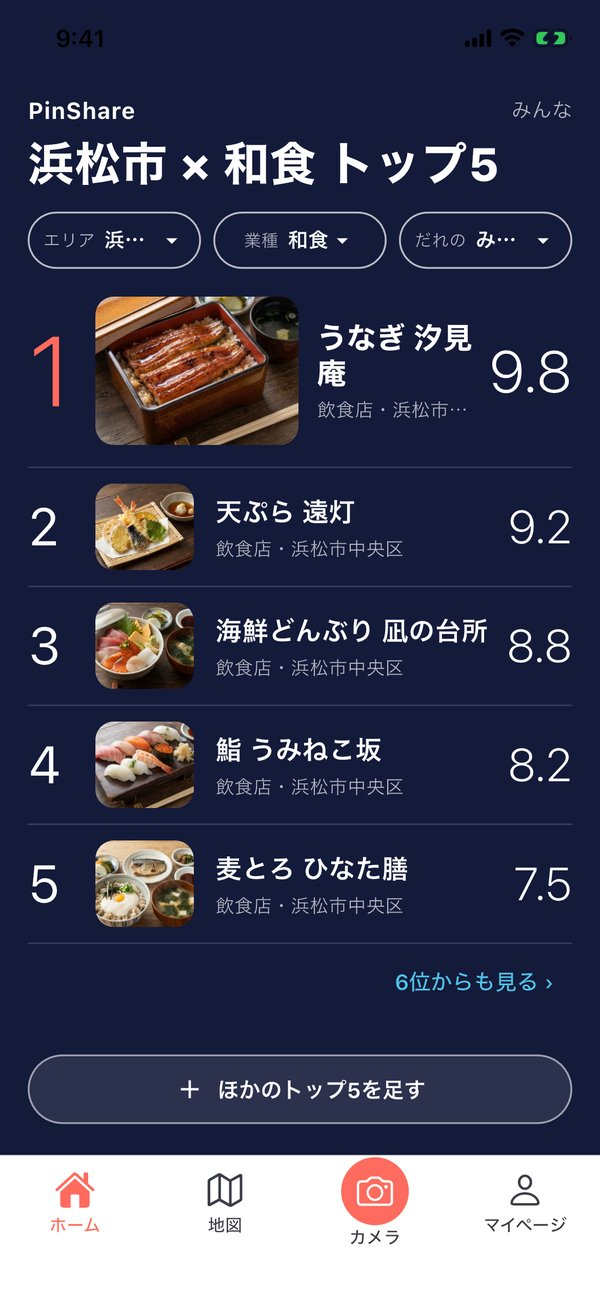
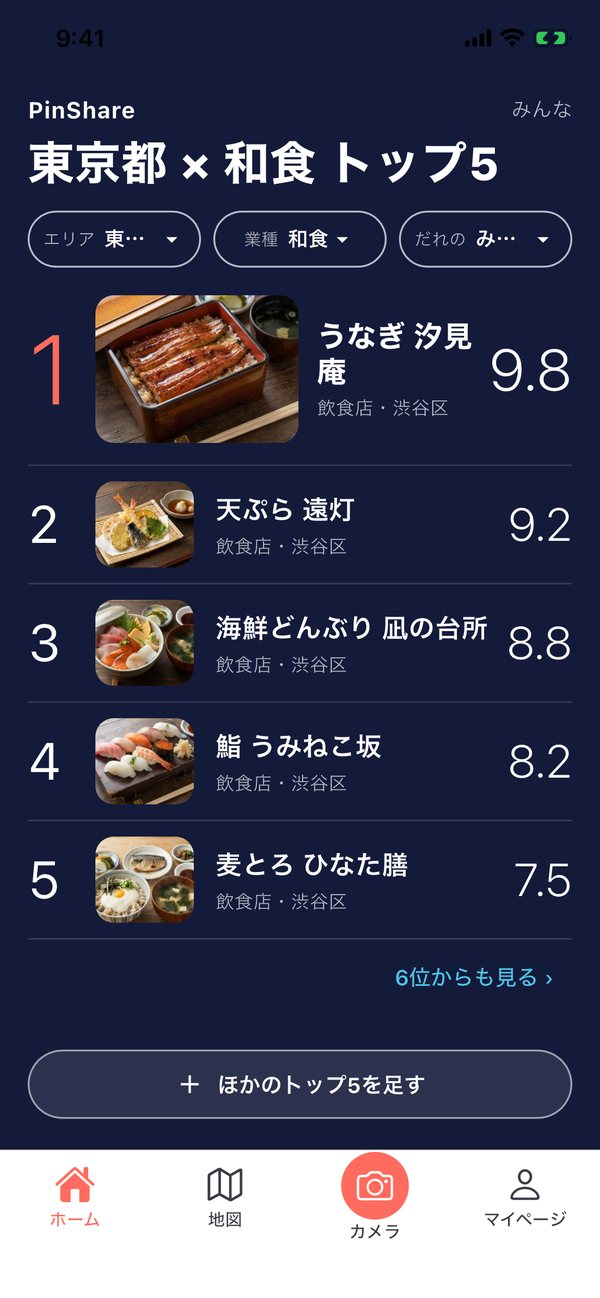
PinShare 紹介ページ：画像を東京の見本に（浜松・ピン友が写っていた）／「みんなのランキングは1人1票」を足す／グループ／2.0.4／404 の検索語から「ピン友」を外す（ja/en/ko）

diff --git a/pinshare/index.html b/pinshare/index.html
@@ -87,7 +87,7 @@
         <svg width="28" height="28" viewBox="0 0 24 24" fill="currentColor" aria-hidden="true"><path d="M16.7 12.7c0-2.3 1.9-3.4 2-3.5-1.1-1.6-2.8-1.8-3.4-1.8-1.4-.1-2.8.9-3.5.9s-1.8-.9-3-.8c-1.5 0-2.9.9-3.7 2.3-1.6 2.7-.4 6.8 1.1 9 .8 1.1 1.7 2.3 2.9 2.2 1.2 0 1.6-.7 3-.7s1.8.7 3 .7 2-1.1 2.8-2.2c.9-1.3 1.2-2.5 1.3-2.6-.1 0-2.5-1-2.5-3.5zM14.5 5.4c.6-.8 1.1-1.9 1-3-.9 0-2.1.6-2.8 1.4-.6.7-1.2 1.8-1 2.9 1 .1 2.1-.5 2.8-1.3z"/></svg>
         <span>無料でダウンロード<small>App Store・iPhone／登録1分</small></span>
       </a> <a class="cta cta2" href="https://play.google.com/store/apps/details?id=com.tujitani.pinshare_flutter"><span>Google Play で手に入れる<small>Android</small></span></a>
-      <p class="note">このページは最新版（2.0.3）の内容です。ストアの更新が届くまで、数日かかることがあります。</p>
+      <p class="note">このページは最新版（2.0.4）の内容です。ストアの更新が届くまで、数日かかることがあります。</p>
     </div>
     <div class="phone" aria-hidden="true">
       <img src="img/hero3.jpg" alt="">
@@ -126,7 +126,8 @@
   <p class="sub">比べる・残す・探す・巡るが、ひとつのアプリで。</p>
   <div class="feats">
     <div class="feat"><h3>🏆 比べるだけで、ランキングができる</h3><p>投稿したら「また行きたいのは？」の2択に答えるだけ。点数を考えなくても、自分の順位が決まっていきます。</p></div>
-    <div class="feat"><h3>🥇 ホームは、エリア × ジャンルのトップ5</h3><p>「浜松 × 和食」のように選ぶとトップ5が並びます。みんな／フォロー中／自分のランキングを切り替えられます。</p></div>
+    <div class="feat"><h3>🥇 ホームは、エリア × ジャンルのトップ5</h3><p>「東京 × ラーメン」のように選ぶとトップ5が並びます。みんなのランキング／フォロー中／グループ／自分のランキングを切り替えられます。</p></div>
+    <div class="feat"><h3>⚖ みんなのランキングは、1人1票</h3><p>点数は、行った人それぞれの評価を「1人1票」として平均したもの。フォロワーや投稿の数で、1票の重さは変わりません。同じ人が同じお店に何度投稿しても、数えるのは1票だけです。</p></div>
     <div class="feat"><h3>📍 行った場所が、私の地図になる</h3><p>写真つきのピンで、行った場所が地図に残ります。ジャンルで絞り込み、自分のTOPだけを見ることもできます。</p></div>
     <div class="feat"><h3>🔎 次の1軒を、地図で探す</h3><p>地名や目的を入れて、地図の中のお店を探せます。見つけたお店はそのままルートに追加。道順は Google マップで開けます。</p></div>
     <div class="feat"><h3>🗺 ルートと旅行プラン</h3><p>いま見ている範囲で、巡る順番をおまかせで提案。行き先と日数から、旅行プランも組めます。</p></div>

diff --git a/pinshare/ko/index.html b/pinshare/ko/index.html
@@ -83,7 +83,7 @@
         <svg width="28" height="28" viewBox="0 0 24 24" fill="currentColor" aria-hidden="true"><path d="M16.7 12.7c0-2.3 1.9-3.4 2-3.5-1.1-1.6-2.8-1.8-3.4-1.8-1.4-.1-2.8.9-3.5.9s-1.8-.9-3-.8c-1.5 0-2.9.9-3.7 2.3-1.6 2.7-.4 6.8 1.1 9 .8 1.1 1.7 2.3 2.9 2.2 1.2 0 1.6-.7 3-.7s1.8.7 3 .7 2-1.1 2.8-2.2c.9-1.3 1.2-2.5 1.3-2.6-.1 0-2.5-1-2.5-3.5zM14.5 5.4c.6-.8 1.1-1.9 1-3-.9 0-2.1.6-2.8 1.4-.6.7-1.2 1.8-1 2.9 1 .1 2.1-.5 2.8-1.3z"/></svg>
         <span>무료 다운로드<small>App Store · iPhone · 가입 1분</small></span>
       </a> <a class="cta cta2" href="https://play.google.com/store/apps/details?id=com.tujitani.pinshare_flutter"><span>Google Play에서 받기<small>Android</small></span></a>
-      <p class="note">이 페이지는 최신 버전(2.0.3) 기준입니다. 스토어 업데이트가 도착하기까지 며칠 걸릴 수 있습니다.</p>
+      <p class="note">이 페이지는 최신 버전(2.0.4) 기준입니다. 스토어 업데이트가 도착하기까지 며칠 걸릴 수 있습니다.</p>
       <p class="note">2.0.3부터 8개 언어를 지원합니다. 아래 화면은 일본어 화면입니다.</p>
     </div>
     <div class="phone" aria-hidden="true">
@@ -123,7 +123,8 @@
   <p class="sub">비교하고, 남기고, 찾고, 도는 것까지 한 앱에서.</p>
   <div class="feats">
     <div class="feat"><h3>🏆 비교만 하면 랭킹 완성</h3><p>게시 후 「또 가고 싶은 곳은?」에 답하기만 하면 됩니다. 점수를 고민하지 않아도 순위가 정해집니다.</p></div>
-    <div class="feat"><h3>🥇 홈은 지역 × 장르 TOP 5</h3><p>지역과 장르를 고르면 TOP 5가 나옵니다. 전체／팔로우 중／내 랭킹으로 바꿔 볼 수 있습니다.</p></div>
+    <div class="feat"><h3>🥇 홈은 지역 × 장르 TOP 5</h3><p>지역과 장르를 고르면 TOP 5가 나옵니다. 전체／팔로우 중／그룹／내 랭킹으로 바꿔 볼 수 있습니다.</p></div>
+    <div class="feat"><h3>⚖ 모두의 랭킹은 1인 1표</h3><p>점수는 다녀온 사람 각자의 평가를 1인 1표로 평균한 것입니다. 팔로워 수나 게시물 수로 한 표의 무게가 달라지지 않고, 같은 가게에 여러 번 올려도 1표로 셉니다.</p></div>
     <div class="feat"><h3>📍 다녀온 곳이 나의 지도로</h3><p>사진 핀으로 다녀온 곳이 지도에 남습니다. 장르로 좁히거나 내 TOP만 볼 수도 있습니다.</p></div>
     <div class="feat"><h3>🔎 다음 한 곳을 지도에서</h3><p>지명이나 목적을 입력해 지도 안의 가게를 찾습니다. 찾은 가게는 코스에 추가하고, 길 안내는 Google 지도로.</p></div>
     <div class="feat"><h3>🗺 코스와 여행 플랜</h3><p>지금 보고 있는 범위에서 도는 순서를 알아서 제안합니다. 목적지와 일수로 여행 플랜도 짤 수 있습니다.</p></div>

diff --git a/pinshare/en/index.html b/pinshare/en/index.html
@@ -83,7 +83,7 @@
         <svg width="28" height="28" viewBox="0 0 24 24" fill="currentColor" aria-hidden="true"><path d="M16.7 12.7c0-2.3 1.9-3.4 2-3.5-1.1-1.6-2.8-1.8-3.4-1.8-1.4-.1-2.8.9-3.5.9s-1.8-.9-3-.8c-1.5 0-2.9.9-3.7 2.3-1.6 2.7-.4 6.8 1.1 9 .8 1.1 1.7 2.3 2.9 2.2 1.2 0 1.6-.7 3-.7s1.8.7 3 .7 2-1.1 2.8-2.2c.9-1.3 1.2-2.5 1.3-2.6-.1 0-2.5-1-2.5-3.5zM14.5 5.4c.6-.8 1.1-1.9 1-3-.9 0-2.1.6-2.8 1.4-.6.7-1.2 1.8-1 2.9 1 .1 2.1-.5 2.8-1.3z"/></svg>
         <span>Download free<small>App Store · iPhone · 1-minute sign-up</small></span>
       </a> <a class="cta cta2" href="https://play.google.com/store/apps/details?id=com.tujitani.pinshare_flutter"><span>Get it on Google Play<small>Android</small></span></a>
-      <p class="note">This page describes the latest version (2.0.3). Store updates can take a few days to reach you.</p>
+      <p class="note">This page describes the latest version (2.0.4). Store updates can take a few days to reach you.</p>
       <p class="note">From 2.0.3 the app is available in 8 languages. Screens below are shown in Japanese.</p>
     </div>
     <div class="phone" aria-hidden="true">
@@ -123,7 +123,8 @@
   <p class="sub">Compare, keep, find and tour — in one app.</p>
   <div class="feats">
     <div class="feat"><h3>🏆 Rankings by comparing</h3><p>After posting, just answer “Which would you visit again?” No scores to think about — your order sorts itself out.</p></div>
-    <div class="feat"><h3>🥇 Top 5 by area and genre</h3><p>Pick an area and a genre to see the top 5. Switch between everyone, people you follow, and your own ranking.</p></div>
+    <div class="feat"><h3>🥇 Top 5 by area and genre</h3><p>Pick an area and a genre to see the top 5. Switch between everyone, people you follow, your groups, and your own ranking.</p></div>
+    <div class="feat"><h3>⚖ One person, one vote</h3><p>Scores are the average of each visitor’s rating, one vote per person. Follower counts and post counts never change the weight of a vote, and posting the same place many times still counts once.</p></div>
     <div class="feat"><h3>📍 Your own map</h3><p>Places you visited stay on the map as photo pins. Filter by genre, or show only your top picks.</p></div>
     <div class="feat"><h3>🔎 Find the next spot</h3><p>Search shops on the map by place name or purpose. Add them to a route, and open directions in Google Maps.</p></div>
     <div class="feat"><h3>🗺 Routes and trip plans</h3><p>Get a suggested order for the area you are looking at. Build a trip plan from a destination and number of days.</p></div>

diff --git a/404.html b/404.html
@@ -17,5 +17,5 @@
 <h1>PinShare のページへ移動します…</h1>
 <p>自動で移動しない場合は、下のボタンを押してください。</p>
 <a href="/pinshare/">PinShare のページを開く</a>
-<p style="margin-top:28px;font-size:.9rem">App Store で探すときは <b>「PinShare ピン友」</b> と検索してください。</p>
+<p style="margin-top:28px;font-size:.9rem">App Store で探すときは <b>「PinShare」</b> と検索してください。</p>
 </body></html>
